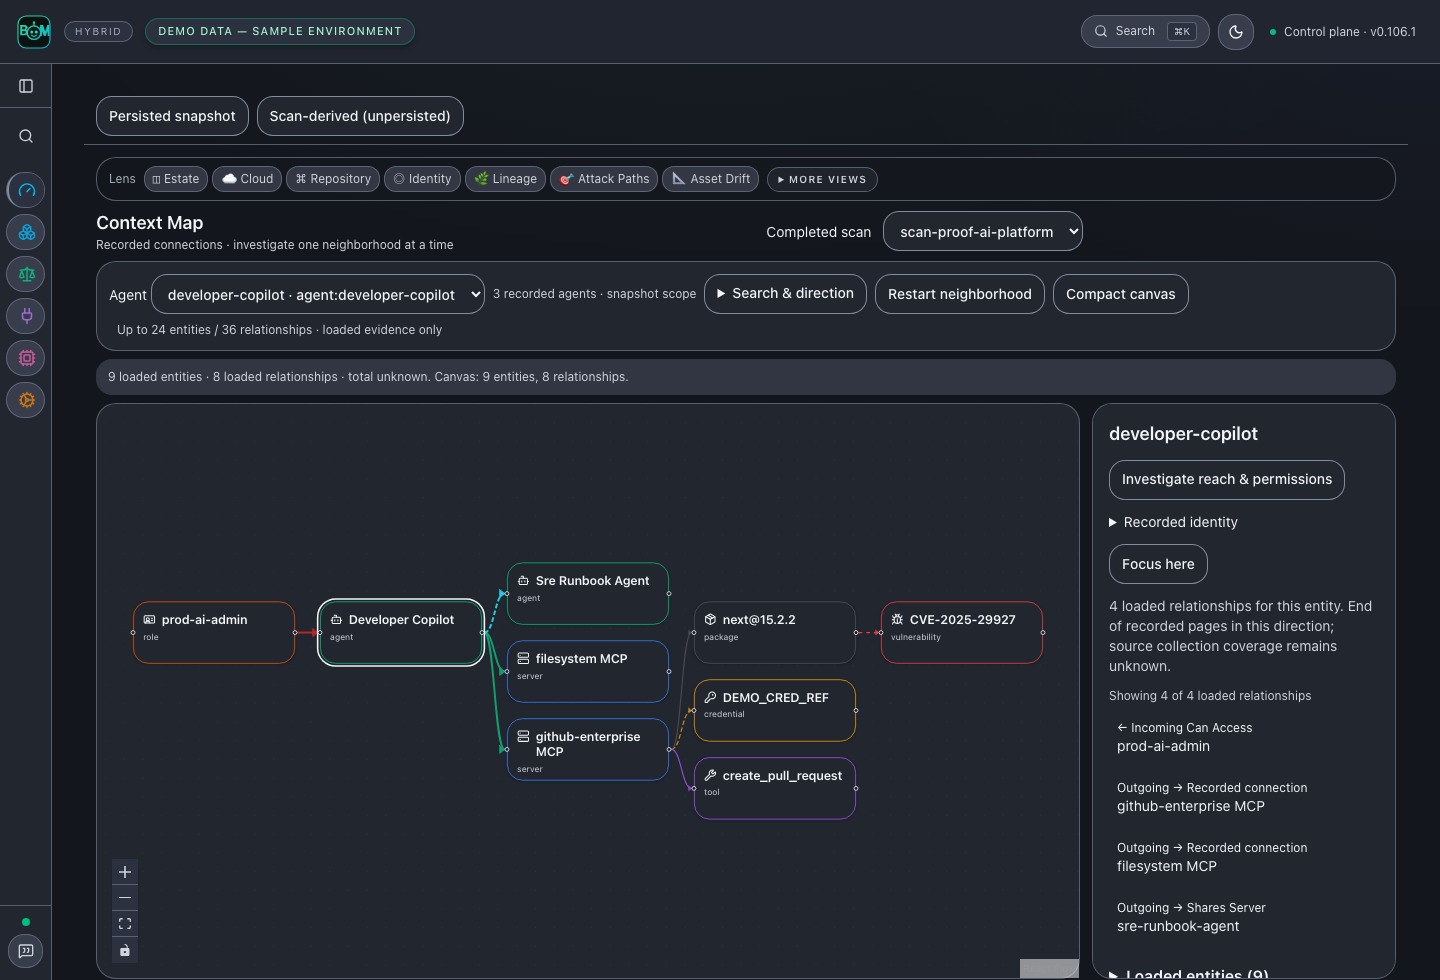
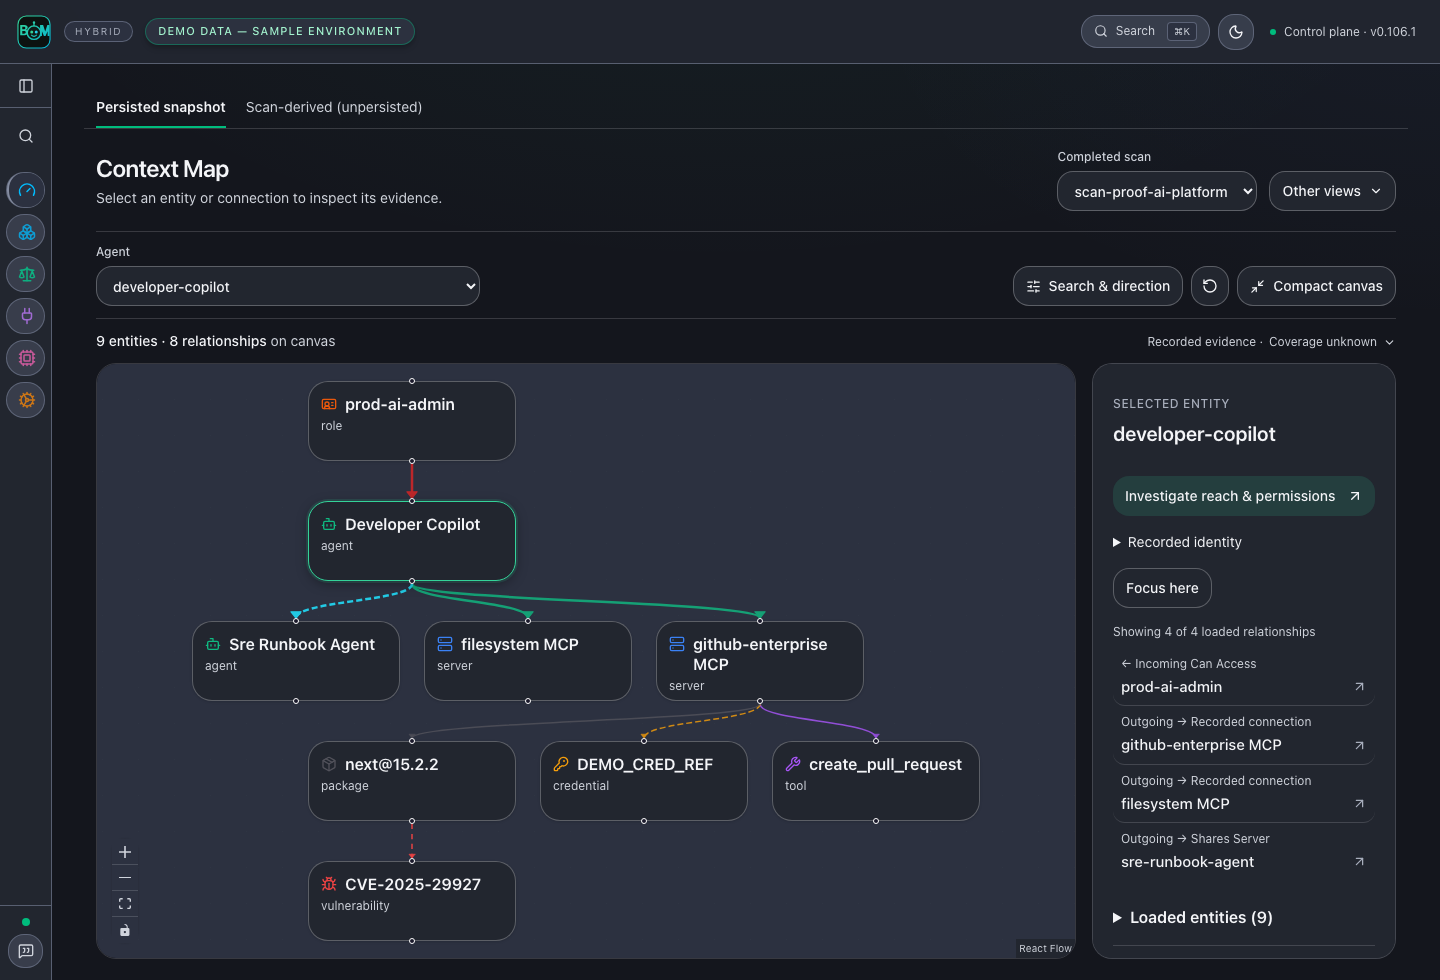
docs(ui): publish readable context map in both themes

diff --git a/README.md b/README.md
@@ -25,11 +25,11 @@
 </p>
 
 <p align="center">
-  <a href="docs/images/context-map-live.png"><img src="docs/images/context-map-live.png" alt="Recorded agent connections linking a role, agents, MCP servers, tool, credential reference, package and finding" width="960"></a>
+  <a href="docs/images/context-map-live.png"><picture><source media="(prefers-color-scheme: light)" srcset="docs/images/context-map-light-live.png"><img src="docs/images/context-map-live.png" alt="Recorded agent connections linking a role, agents, MCP servers, tool, credential reference, package and finding" width="960"></picture></a>
 </p>
 
 agent-bom finds the AI agents, MCP servers, packages and credentials in a repository, workstation or cloud account, matches packages against vulnerability advisories, and connects findings to recorded agent, tool and credential relationships.
-Run it as a CLI, in CI, as an MCP server for your assistant, or as a self-hosted dashboard. A recorded relationship is evidence to investigate; it does not prove execution or data access. The map above uses labeled sample data.
+Run it as a CLI, in CI, as an MCP server for your assistant, or as a self-hosted dashboard. A recorded relationship is evidence to investigate; it does not prove execution or data access. The map above uses labeled sample data. [Light view](docs/images/context-map-light-live.png) · [Dark view](docs/images/context-map-live.png).
 
 **Start where you work:** [scan a repository](#quick-start), [run the shared dashboard](#self-host-in-your-environment), or [connect your assistant](docs/MCP_WORKFLOWS.md). Apache-2.0; the control plane runs in your own environment.
 
